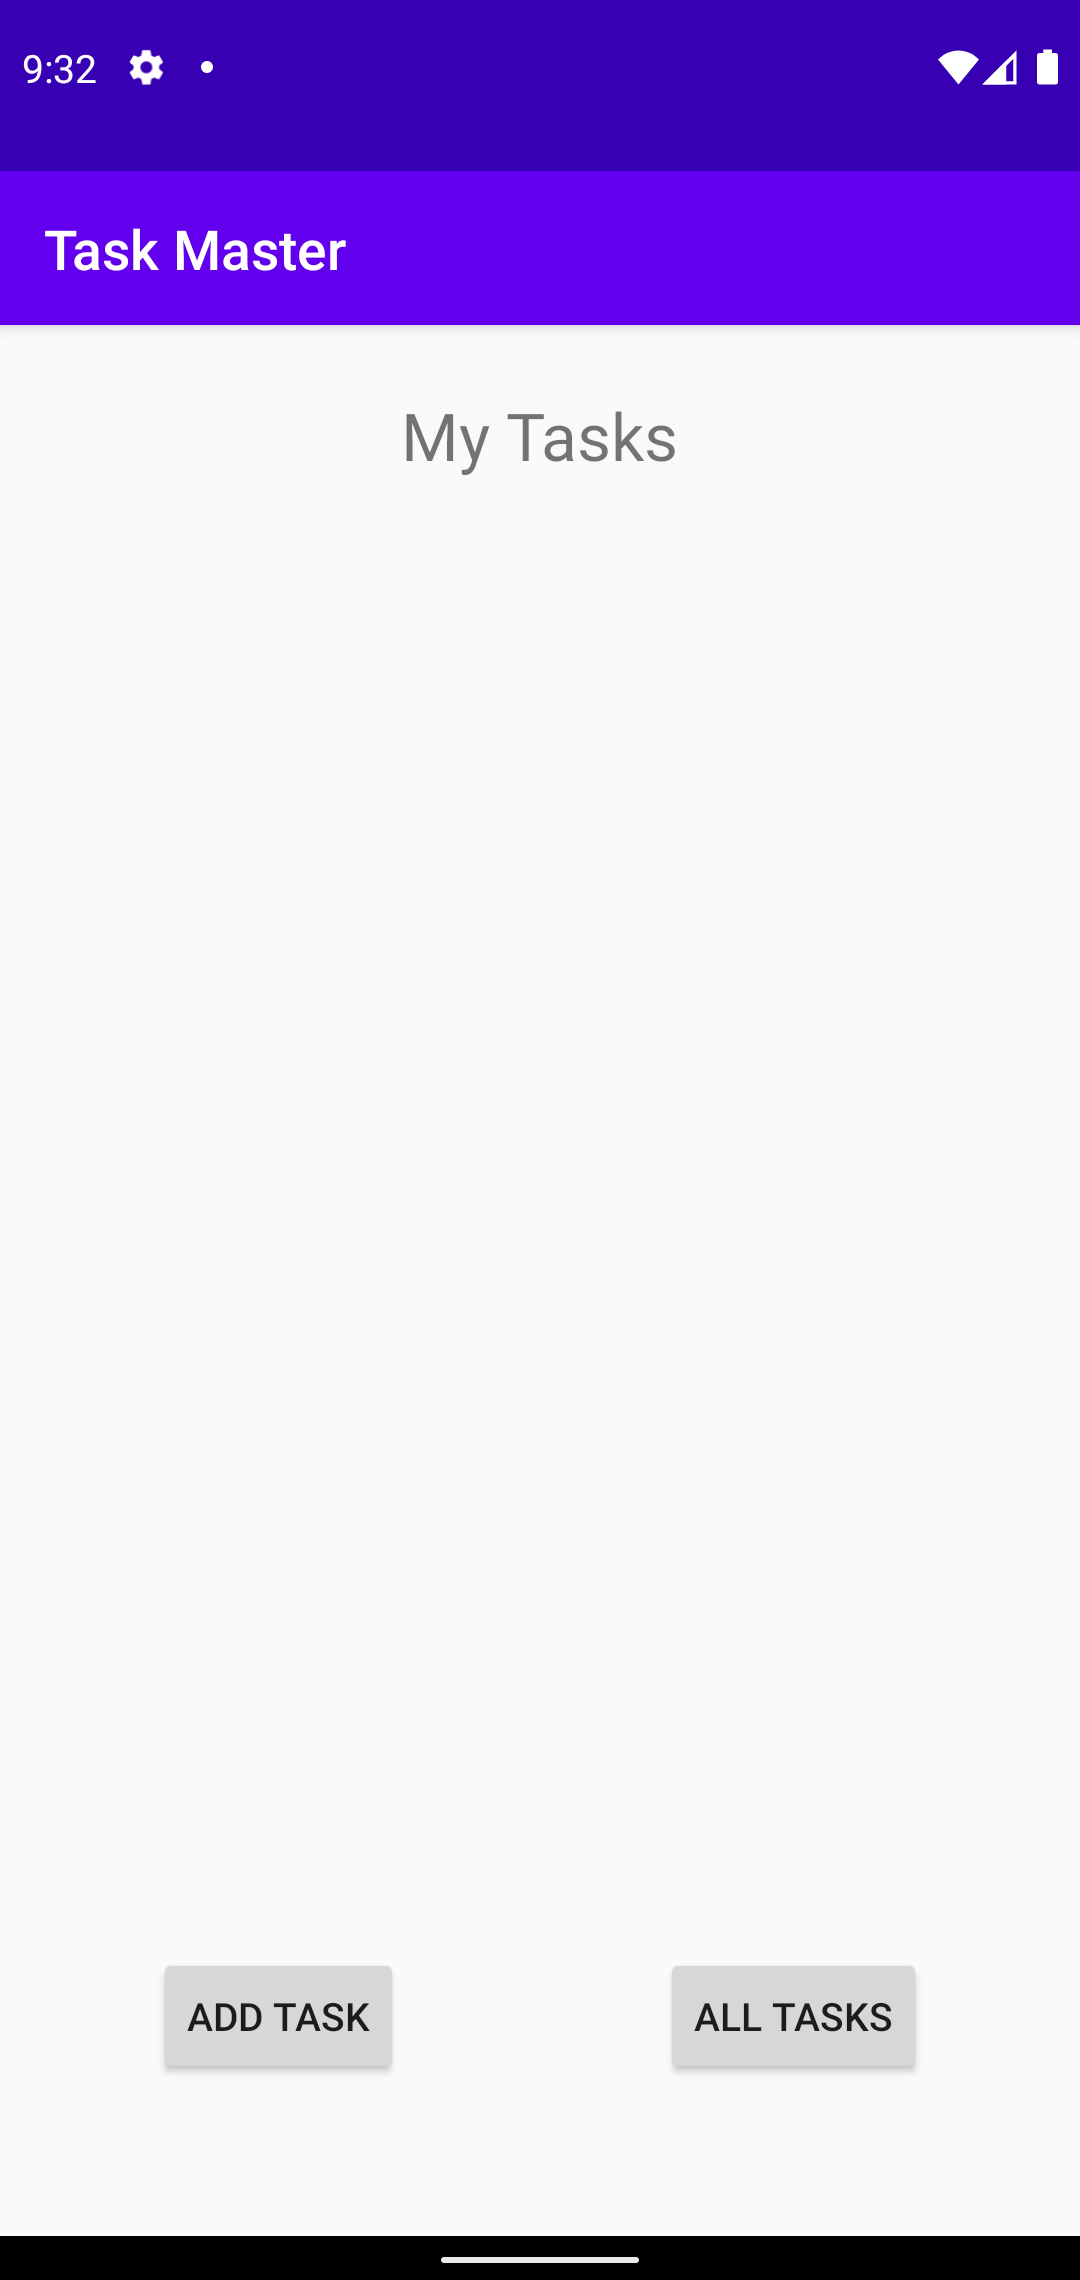
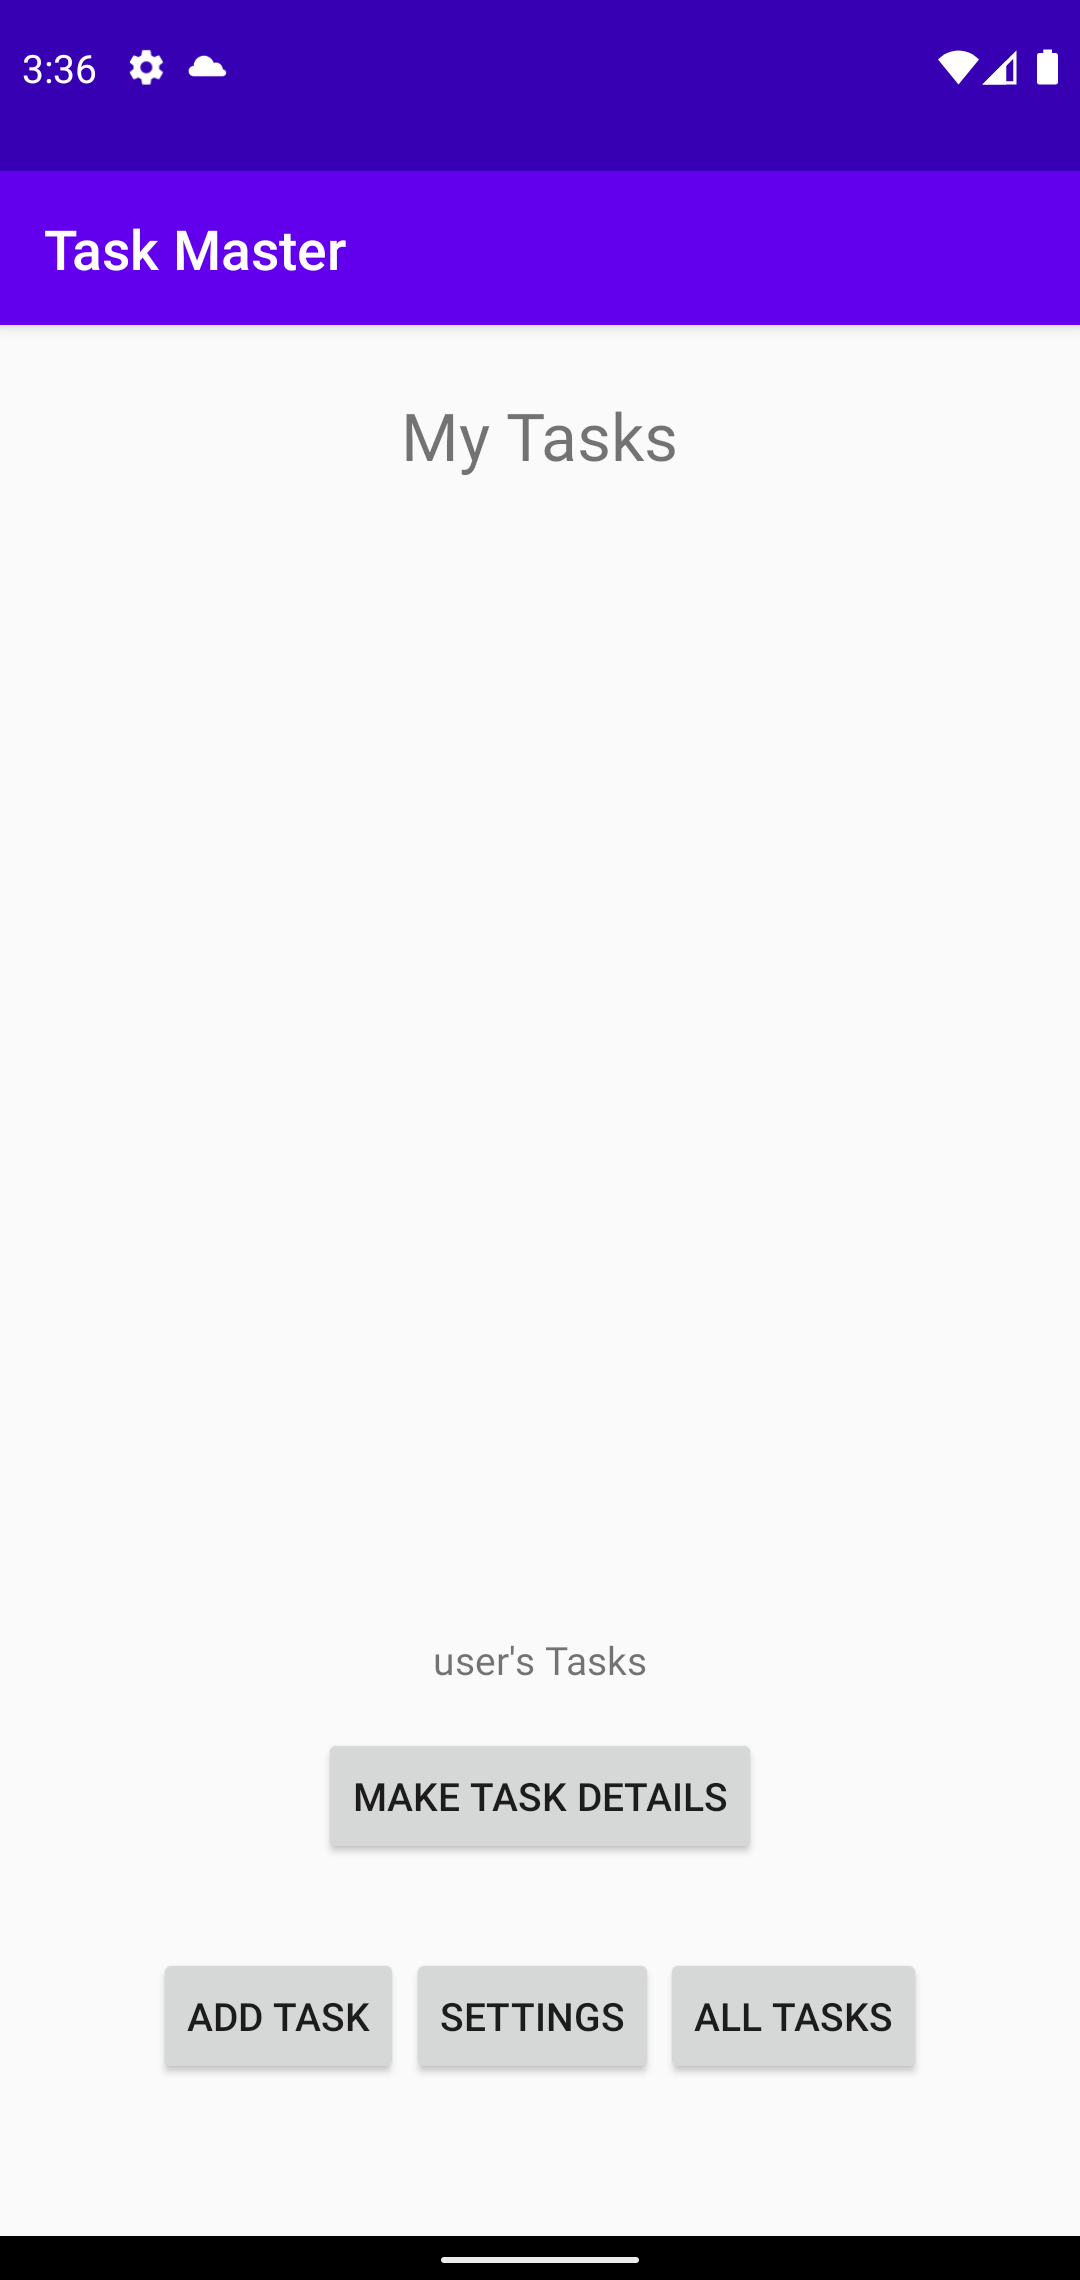
shared preferences

Changed region(s): [[0.3056, 0.7162, 0.7028, 0.8096], [0.3667, 0.8408, 0.6111, 0.9342]]

diff --git a/app/src/main/java/com/taskmaster/MainActivity.java b/app/src/main/java/com/taskmaster/MainActivity.java
@@ -1,10 +1,13 @@
 package com.taskmaster;
 
 import android.content.Intent;
+import android.content.SharedPreferences;
+import android.preference.PreferenceManager;
 import android.support.v7.app.AppCompatActivity;
 import android.os.Bundle;
 import android.view.View;
 import android.widget.Button;
+import android.widget.TextView;
 
 public class MainActivity extends AppCompatActivity {
 
@@ -24,6 +27,16 @@ public class MainActivity extends AppCompatActivity {
 
     Button settingsButton = findViewById(R.id.settingsButton);
     settingsButton.setOnClickListener(goToSettings);
+  }
+
+  @Override
+  protected void onResume() {
+    super.onResume();
+
+    SharedPreferences preference = PreferenceManager.getDefaultSharedPreferences(getApplicationContext());
+    String username = preference.getString("username", "user") + "'s Tasks";
+    TextView userLabel = findViewById(R.id.userTasksLabel);
+    userLabel.setText(username);
   }
 
   private final View.OnClickListener goToNewTaskCreator = new View.OnClickListener() {

diff --git a/app/src/main/java/com/taskmaster/Settings.java b/app/src/main/java/com/taskmaster/Settings.java
@@ -22,8 +22,8 @@ public class Settings extends AppCompatActivity {
 
     getSupportActionBar().setDefaultDisplayHomeAsUpEnabled(true);
 
-//    Button saveUsernameButton = findViewById(R.id.usernameSaveButton);
-//    saveUsernameButton.setOnClickListener(updateUsernameListener);
+    Button saveUsernameButton = findViewById(R.id.usernameSaveButton);
+    saveUsernameButton.setOnClickListener(updateUsernameListener);
   }
 
   private final View.OnClickListener updateUsernameListener = new View.OnClickListener() {
